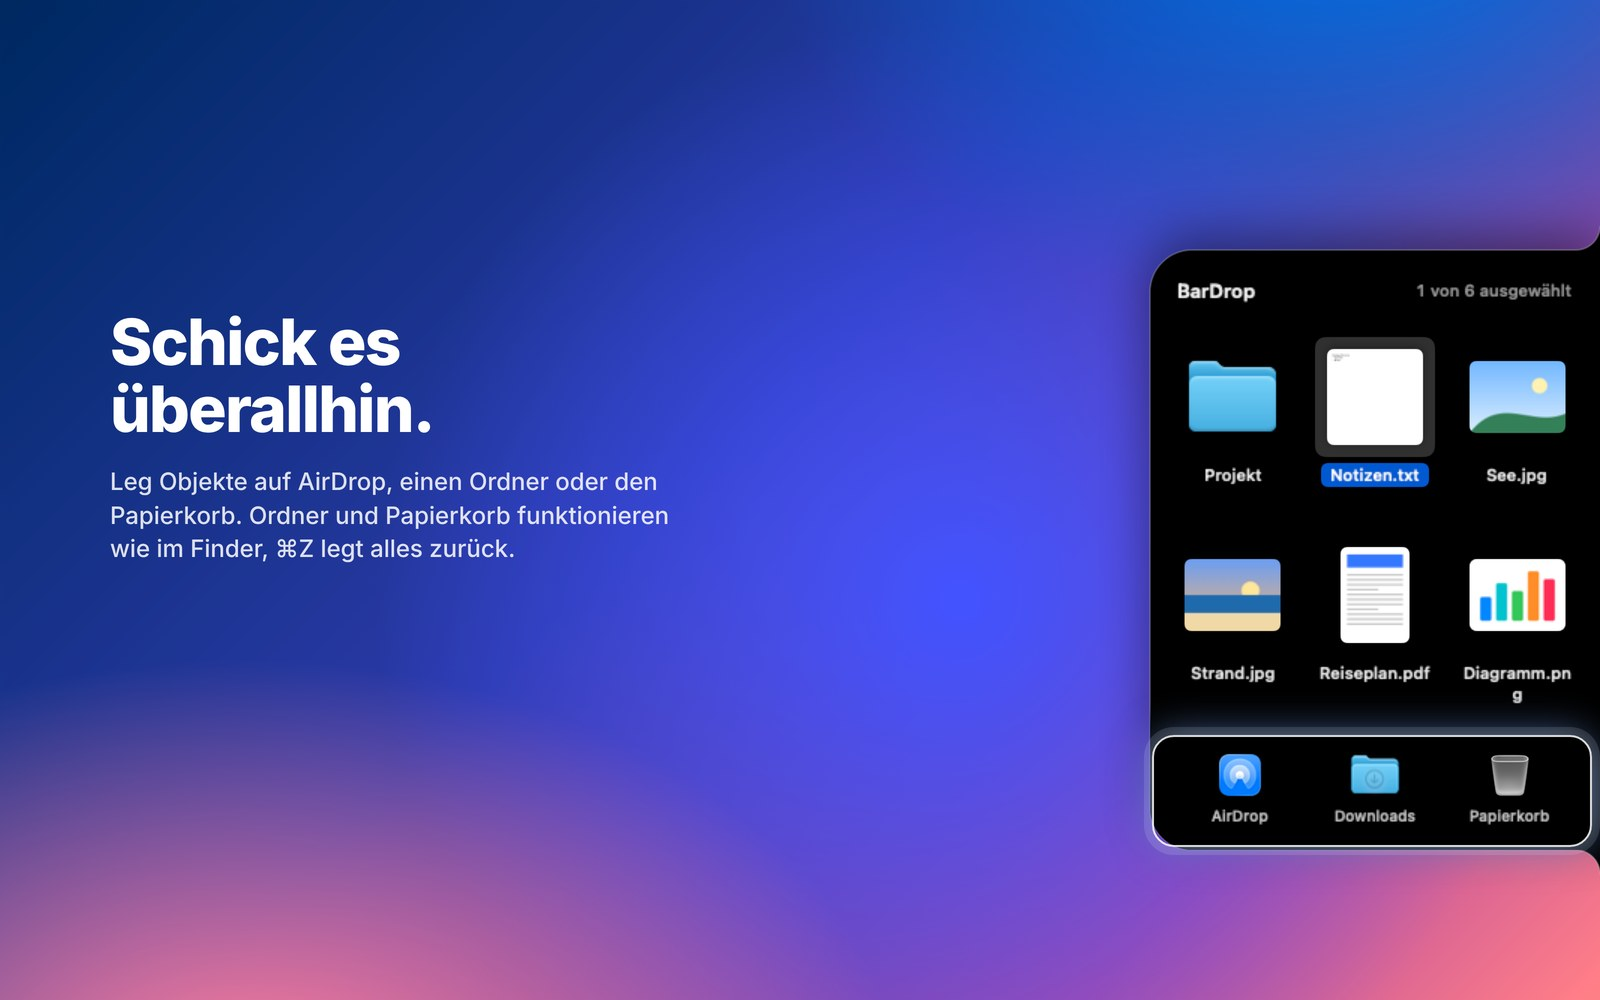
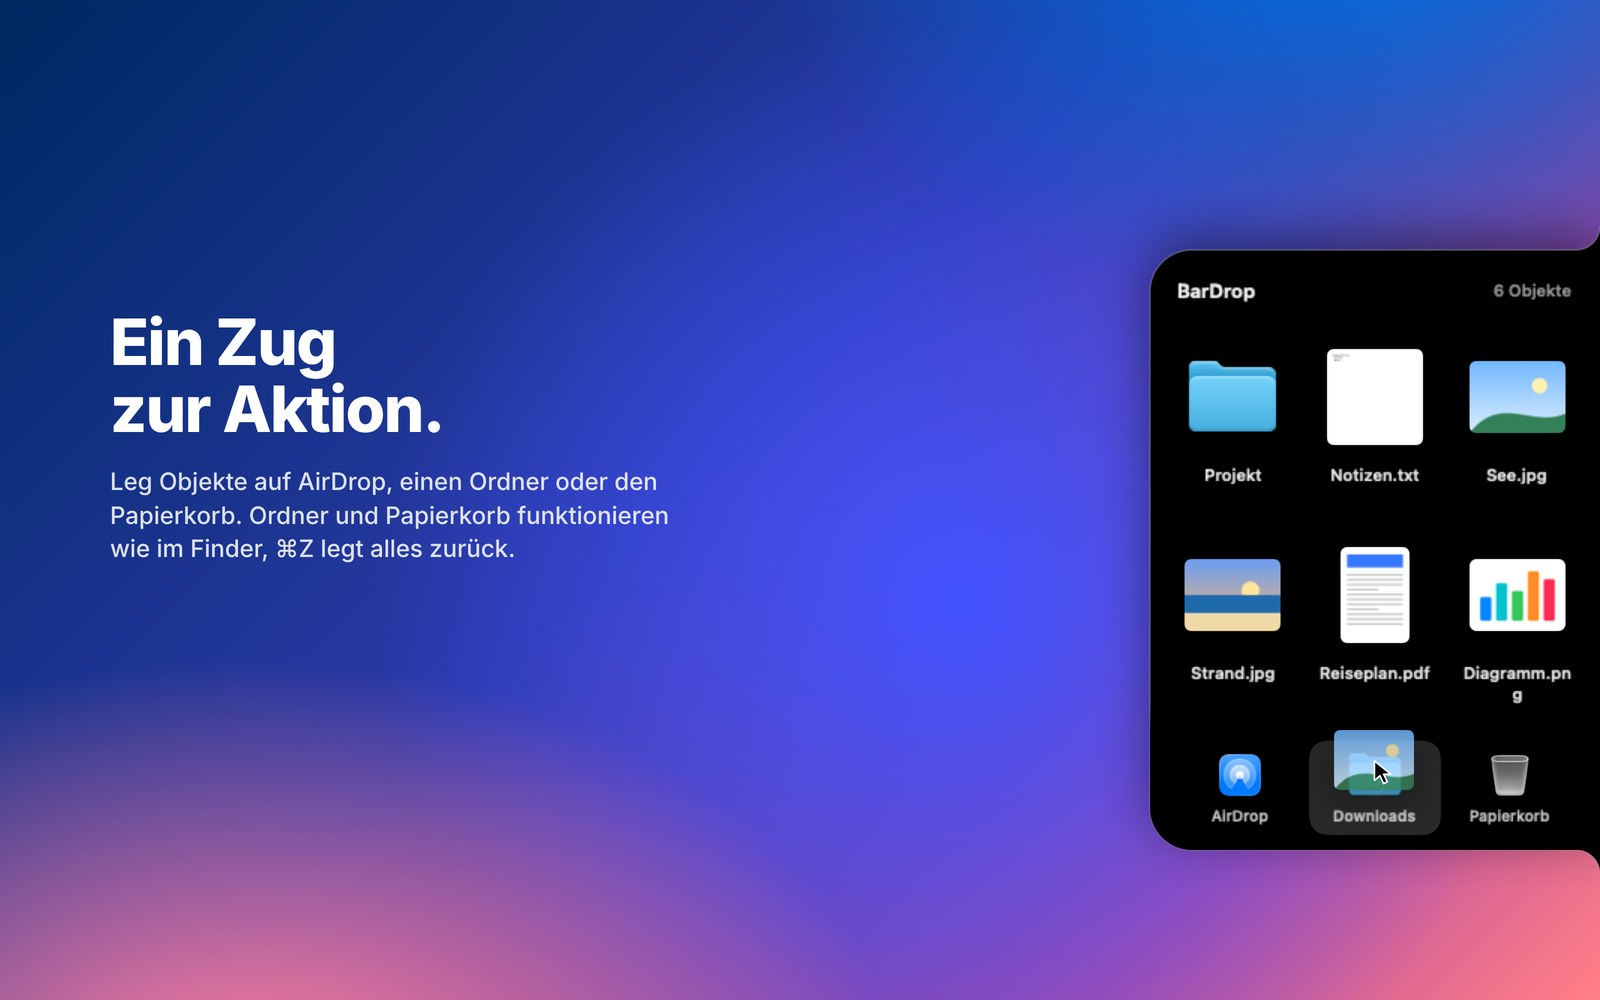
1.30.0 Beta 22: Entfernen-Ton leiser, keine Aussparung in der Einführung, Schatten unter Symbolen, Diagnoseprotokoll mit Fehlerherkunft, neue README-Bilder
Claude-Session: https://claude.ai/code/session_01Q57yxyjdU7wxBd8Y5q7yXG

diff --git a/Sources/BarDrop/Sounds.swift b/Sources/BarDrop/Sounds.swift
@@ -12,9 +12,13 @@ enum Sounds {
     /// Aus der Ablage entfernen (⌫, Entfernen, Alle entfernen): der Klang des Finders
     /// „move to trash“, den BarDrop bis 1.30.0 Beta 14 für alles verwendet hat. Nur sein
     /// erster Schlag: Die Datei blendet 80 ms leise ein und klingt danach noch über eine
-    /// Sekunde nach, das wirkte verzögert und zu lang.
-    private static let removeSound: NSSound? =
-        NSSound(contentsOf: URL(fileURLWithPath: systemSounds + "finder/move to trash.aif"), byReference: false)
+    /// Sekunde nach, das wirkte verzögert und zu lang. Leiser abgespielt: man hört ihn oft.
+    private static let removeSound: NSSound? = {
+        let sound = NSSound(contentsOf: URL(fileURLWithPath: systemSounds + "finder/move to trash.aif"), byReference: false)
+        sound?.volume = removeVolume
+        return sound
+    }()
+    private static let removeVolume: Float = 0.5
     private static let removeStart: TimeInterval = 0.08
     private static let removeLength: TimeInterval = 0.17
     private static var removeStop: DispatchWorkItem?

diff --git a/scripts/media/make.py b/scripts/media/make.py
@@ -2,13 +2,13 @@ import json
 T={
 "en":{
  "hero":("A shelf at the<br>edge of your screen.","Drop anything at the edge of your screen. Drag it back out whenever you need it."),
- "actions":("Send it<br>anywhere.","Drop items on AirDrop, a folder or the Trash. Folders and the Trash work like in the Finder, and ⌘Z puts things back."),
+ "actions":("One drag<br>to any action.","Drop items on AirDrop, a folder or the Trash. Folders and the Trash work like in the Finder, and ⌘Z puts things back."),
  "stacks":("Stacks keep<br>things together.","Drop several files at once and they stay together. Click a stack to look inside."),
  "settings":("Feels right<br>at home on a Mac.","Edge, size, actions and how files are kept, in Settings built like macOS. Light and dark."),
 },
 "de":{
  "hero":("Eine Ablage am Rand<br>deines Bildschirms.","Leg alles am Bildschirmrand ab und zieh es wieder heraus, wenn du es brauchst."),
- "actions":("Schick es<br>überallhin.","Leg Objekte auf AirDrop, einen Ordner oder den Papierkorb. Ordner und Papierkorb funktionieren wie im Finder, ⌘Z legt alles zurück."),
+ "actions":("Ein Zug<br>zur Aktion.","Leg Objekte auf AirDrop, einen Ordner oder den Papierkorb. Ordner und Papierkorb funktionieren wie im Finder, ⌘Z legt alles zurück."),
  "stacks":("Stapel halten<br>zusammen.","Mehrere Dateien auf einmal bleiben zusammen. Ein Klick auf den Stapel zeigt, was drin ist."),
  "settings":("Fühlt sich an<br>wie macOS.","Rand, Größe, Aktionen und wie Dateien aufbewahrt werden, in Einstellungen im Stil von macOS. Hell und dunkel."),
 }}

diff --git a/.github/RELEASE_NOTES.md b/.github/RELEASE_NOTES.md
@@ -1,23 +1,13 @@
-### Changed behavior
-* BarDrop opens at login by default
-* All actions are in the lower row by default
-* “Small hit area” now also applies to dragged files
-
-### Also new
-* Introduction: the shelf stays open while you drag, the window is see-through like Settings, files can’t get lost on the background, edge changes take one click, and the last page shows six features
-* Changing the size of the action icons shows live at the edge
-* Slight gradient on the icons in Settings and the introduction
-* Beta only: an optional, anonymous diagnostic log (off by default, stays on your Mac)
+### Changes
+* Introduction: no cut-out behind the window anymore, it lagged behind when moving the window
+* “Remove from Shelf” is quieter
+* Slight shadow on the icons in Settings and the introduction
+* Beta only: the diagnostic log records every error with its code, message and place in the code, plus crash reports
 
 <!-- de -->
 
-### Geändertes Verhalten
-* BarDrop startet standardmäßig beim Anmelden
-* Alle Aktionen stehen standardmäßig in der unteren Reihe
-* „Kleiner Trefferbereich“ gilt jetzt auch für gezogene Dateien
-
-### Außerdem
-* Einführung: Die Ablage bleibt beim Ziehen offen, das Fenster ist durchscheinend wie die Einstellungen, auf dem Hintergrund gehen keine Dateien verloren, der Rand wechselt mit einem Klick, und die letzte Seite zeigt sechs Funktionen
-* Die Symbolgröße der Aktionen ist am Rand sofort zu sehen
-* Leichter Farbverlauf bei den Symbolen in Einstellungen und Einführung
-* Nur Beta: ein optionales, anonymes Diagnoseprotokoll (standardmäßig aus, bleibt auf deinem Mac)
+### Änderungen
+* Einführung: keine Aussparung mehr hinter dem Fenster, sie hinkte beim Verschieben hinterher
+* „Aus der Ablage entfernen“ ist leiser
+* Leichter Schatten unter den Symbolen in Einstellungen und Einführung
+* Nur Beta: Das Diagnoseprotokoll hält jeden Fehler mit Code, Meldung und Stelle im Code fest, dazu Absturzberichte

diff --git a/CHANGELOG.md b/CHANGELOG.md
@@ -1,5 +1,12 @@
 # Changelog
 
+## 1.30.0-beta.22
+* Introduction: no more cut-out in the dimmed background behind the window (it lagged behind when you moved the window)
+* “Remove from Shelf” plays its sound at half the volume
+* Icons in the Settings sidebar and on the last page of the introduction have a slight shadow
+* Diagnostic log (beta only): every error is recorded with its code, a readable name, the system’s message (names and paths hidden) and the place in the code where it happened; uncaught exceptions and macOS crash reports of BarDrop are included in the saved log. Quick Look’s harmless “no cached preview” for the fast first preview is marked as normal
+* README: new pictures of an action in use and of the whole Settings window
+
 ## 1.30.0-beta.21
 * **Changed:** BarDrop opens at login by default; it is turned on at the first launch (turn it off in the introduction or in Settings → General). Reset All Settings turns it back on
 * **Changed:** All actions are in the lower row by default (for everyone who never moved them)

diff --git a/README.md b/README.md
@@ -61,9 +61,9 @@ After that, BarDrop keeps itself up to date in the background while you’re not
 
 <p align="center">
   <img src="docs/images/hero-en.jpg" width="49%" alt="The shelf open at the right edge of the screen with six files">
-  <img src="docs/images/actions-en.jpg" width="49%" alt="The action bar with AirDrop, Downloads and Trash">
+  <img src="docs/images/actions-en.jpg" width="49%" alt="A photo dragged onto the Downloads action in the action bar">
   <img src="docs/images/stacks-en.jpg" width="49%" alt="Several files grouped as a stack">
-  <img src="docs/images/settings-en.jpg" width="49%" alt="Settings in dark and light mode">
+  <img src="docs/images/settings-en.jpg" width="49%" alt="The Settings window in dark mode">
 </p>
 
 ## Features

diff --git a/docs/README.de.md b/docs/README.de.md
@@ -61,9 +61,9 @@ Danach hält sich BarDrop im Hintergrund selbst aktuell, während du es nicht be
 
 <p align="center">
   <img src="images/hero-de.jpg" width="49%" alt="Die Ablage offen am rechten Bildschirmrand mit sechs Dateien">
-  <img src="images/actions-de.jpg" width="49%" alt="Die Aktionsleiste mit AirDrop, Downloads und Papierkorb">
+  <img src="images/actions-de.jpg" width="49%" alt="Ein Foto wird auf die Aktion Downloads in der Aktionsleiste gezogen">
   <img src="images/stacks-de.jpg" width="49%" alt="Mehrere Dateien als Stapel">
-  <img src="images/settings-de.jpg" width="49%" alt="Einstellungen im dunklen und hellen Modus">
+  <img src="images/settings-de.jpg" width="49%" alt="Das Einstellungsfenster im Dunkelmodus">
 </p>
 
 ## Funktionen
